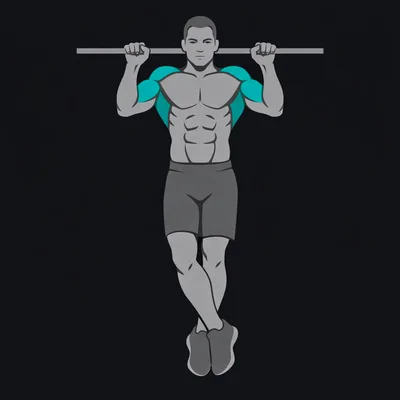
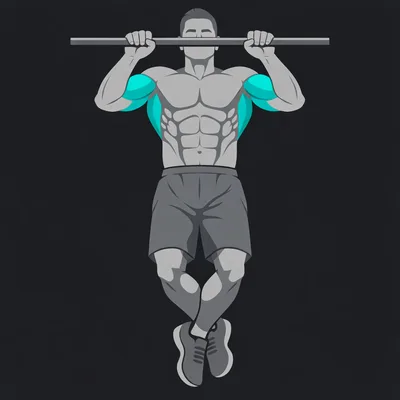
Default rest to 5 seconds + fix male chin-up grip illustration
- Rest timer default changed from 90s to 5s (GTG doesn't need long
  rest between alternating exercises)
- Step size changed from 15s to 5s increments
- Male chin-up illustration regenerated: front-facing view with
  prominent bicep highlighting and underhand grip positioning

Changed region(s): [[0.15, 0.0, 0.84, 0.99]]

diff --git a/index.html b/index.html
@@ -948,7 +948,7 @@ header h1 { font-size: var(--text-lg); font-weight: 700; display: flex; align-it
     <div class="section-label">Timer</div>
     <div class="setting-row">
       <span class="setting-label">Rest timer (seconds)</span>
-      <div class="setting-control"><input type="number" id="restTime" value="90" min="0" max="600" step="15"></div>
+      <div class="setting-control"><input type="number" id="restTime" value="5" min="0" max="600" step="5"></div>
     </div>
     <div class="section-label">Goals</div>
     <div class="setting-row">
@@ -1814,9 +1814,9 @@ async function saveSettingsToCloud() {
 
 function saveState() { saveStateLocal(); }
 
-const defaults = { currentReps: 0, sets: [], setNumber: 1, history: [], restSeconds: 90, targetPullups: 10, targetPushups: 20, exercise: 'pullup', variant: 'standard', currentWeight: 10 };
+const defaults = { currentReps: 0, sets: [], setNumber: 1, history: [], restSeconds: 5, targetPullups: 10, targetPushups: 20, exercise: 'pullup', variant: 'standard', currentWeight: 10 };
 const saved = loadStateLocal() || {};
-let state = Object.assign({}, defaults, { history: saved.history || [], restSeconds: saved.restSeconds || 90, targetPullups: saved.targetPullups || 10, targetPushups: saved.targetPushups || 20 });
+let state = Object.assign({}, defaults, { history: saved.history || [], restSeconds: saved.restSeconds || 5, targetPullups: saved.targetPullups || 10, targetPushups: saved.targetPushups || 20 });
 
 // sets: [{reps, exercise, variant}]
 let restInterval = null;
@@ -3856,7 +3856,7 @@ function deleteWorkout(i) {
 document.getElementById('restTime').value = state.restSeconds;
 document.getElementById('targetPullups').value = state.targetPullups;
 document.getElementById('targetPushups').value = state.targetPushups;
-document.getElementById('restTime').addEventListener('change', e => { state.restSeconds = parseInt(e.target.value)||90; saveState(); saveSettingsToCloud(); });
+document.getElementById('restTime').addEventListener('change', e => { state.restSeconds = parseInt(e.target.value)||5; saveState(); saveSettingsToCloud(); });
 document.getElementById('targetPullups').addEventListener('change', e => { state.targetPullups = parseInt(e.target.value)||10; saveState(); saveSettingsToCloud(); });
 document.getElementById('targetPushups').addEventListener('change', e => { state.targetPushups = parseInt(e.target.value)||20; saveState(); saveSettingsToCloud(); });
 document.getElementById('clearHistory').addEventListener('click', () => { if (confirm('Clear all workout history?')) { state.history = []; saveState(); renderHistory(); } });
